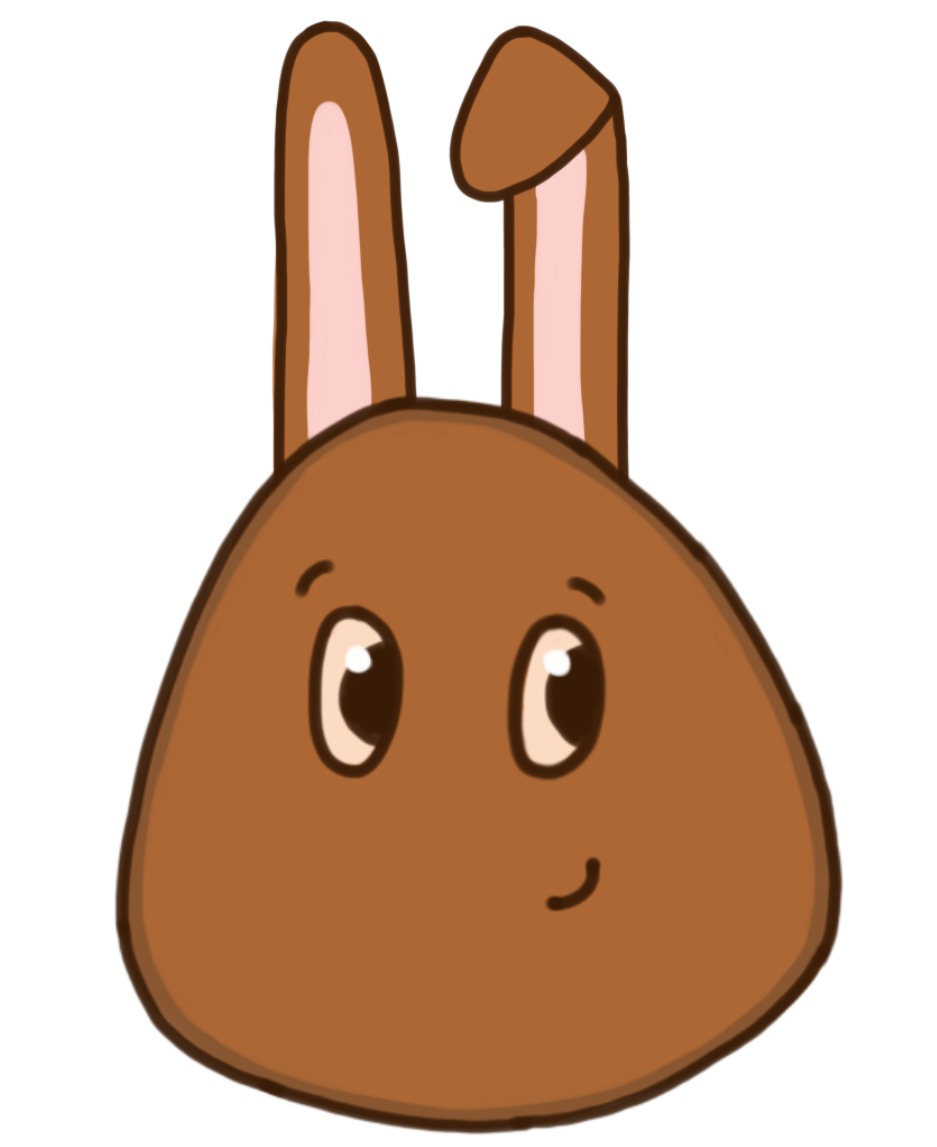
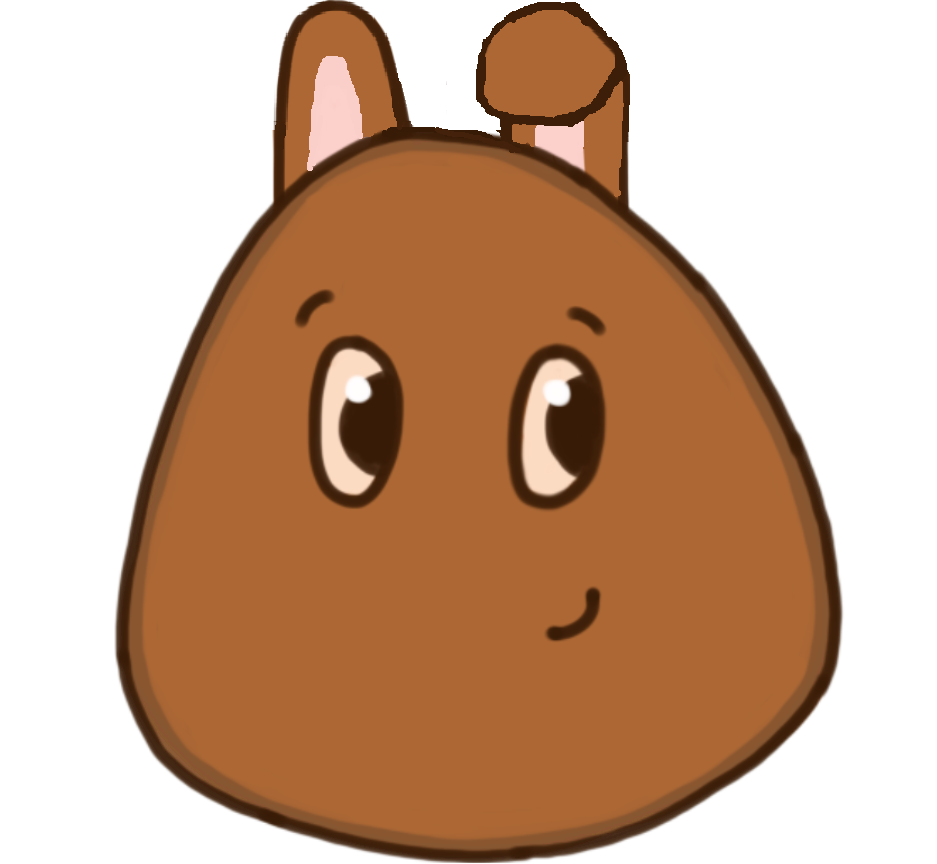
(voeg aan  db pets: [evolution]      INT           DEFAULT ((1)) NULL ) + kleding bunny gefixt + temp img's voor evolution (iemand inspo??!!)

Changed region(s): [[0.1238, 0.0, 0.8975, 1.0], [0.2785, 0.0625, 0.3404, 0.1562], [0.588, 0.7812, 0.619, 0.8125]]

diff --git a/BuddyFitProject/Data/Models/Pets.cs b/BuddyFitProject/Data/Models/Pets.cs
@@ -1,6 +1,4 @@
-using System.ComponentModel.DataAnnotations.Schema;
-
-namespace BuddyFitProject.Data.Models
+namespace BuddyFitProject.Data.Models
 {
     public class Pets
     {
@@ -16,5 +14,7 @@ namespace BuddyFitProject.Data.Models
 
         public DateTime Food_bar_tlc { get; set; }
         public DateTime Health_bar_tlc { get; set; }
+        public int Evolution { get; set; }
+      
     }
 }
